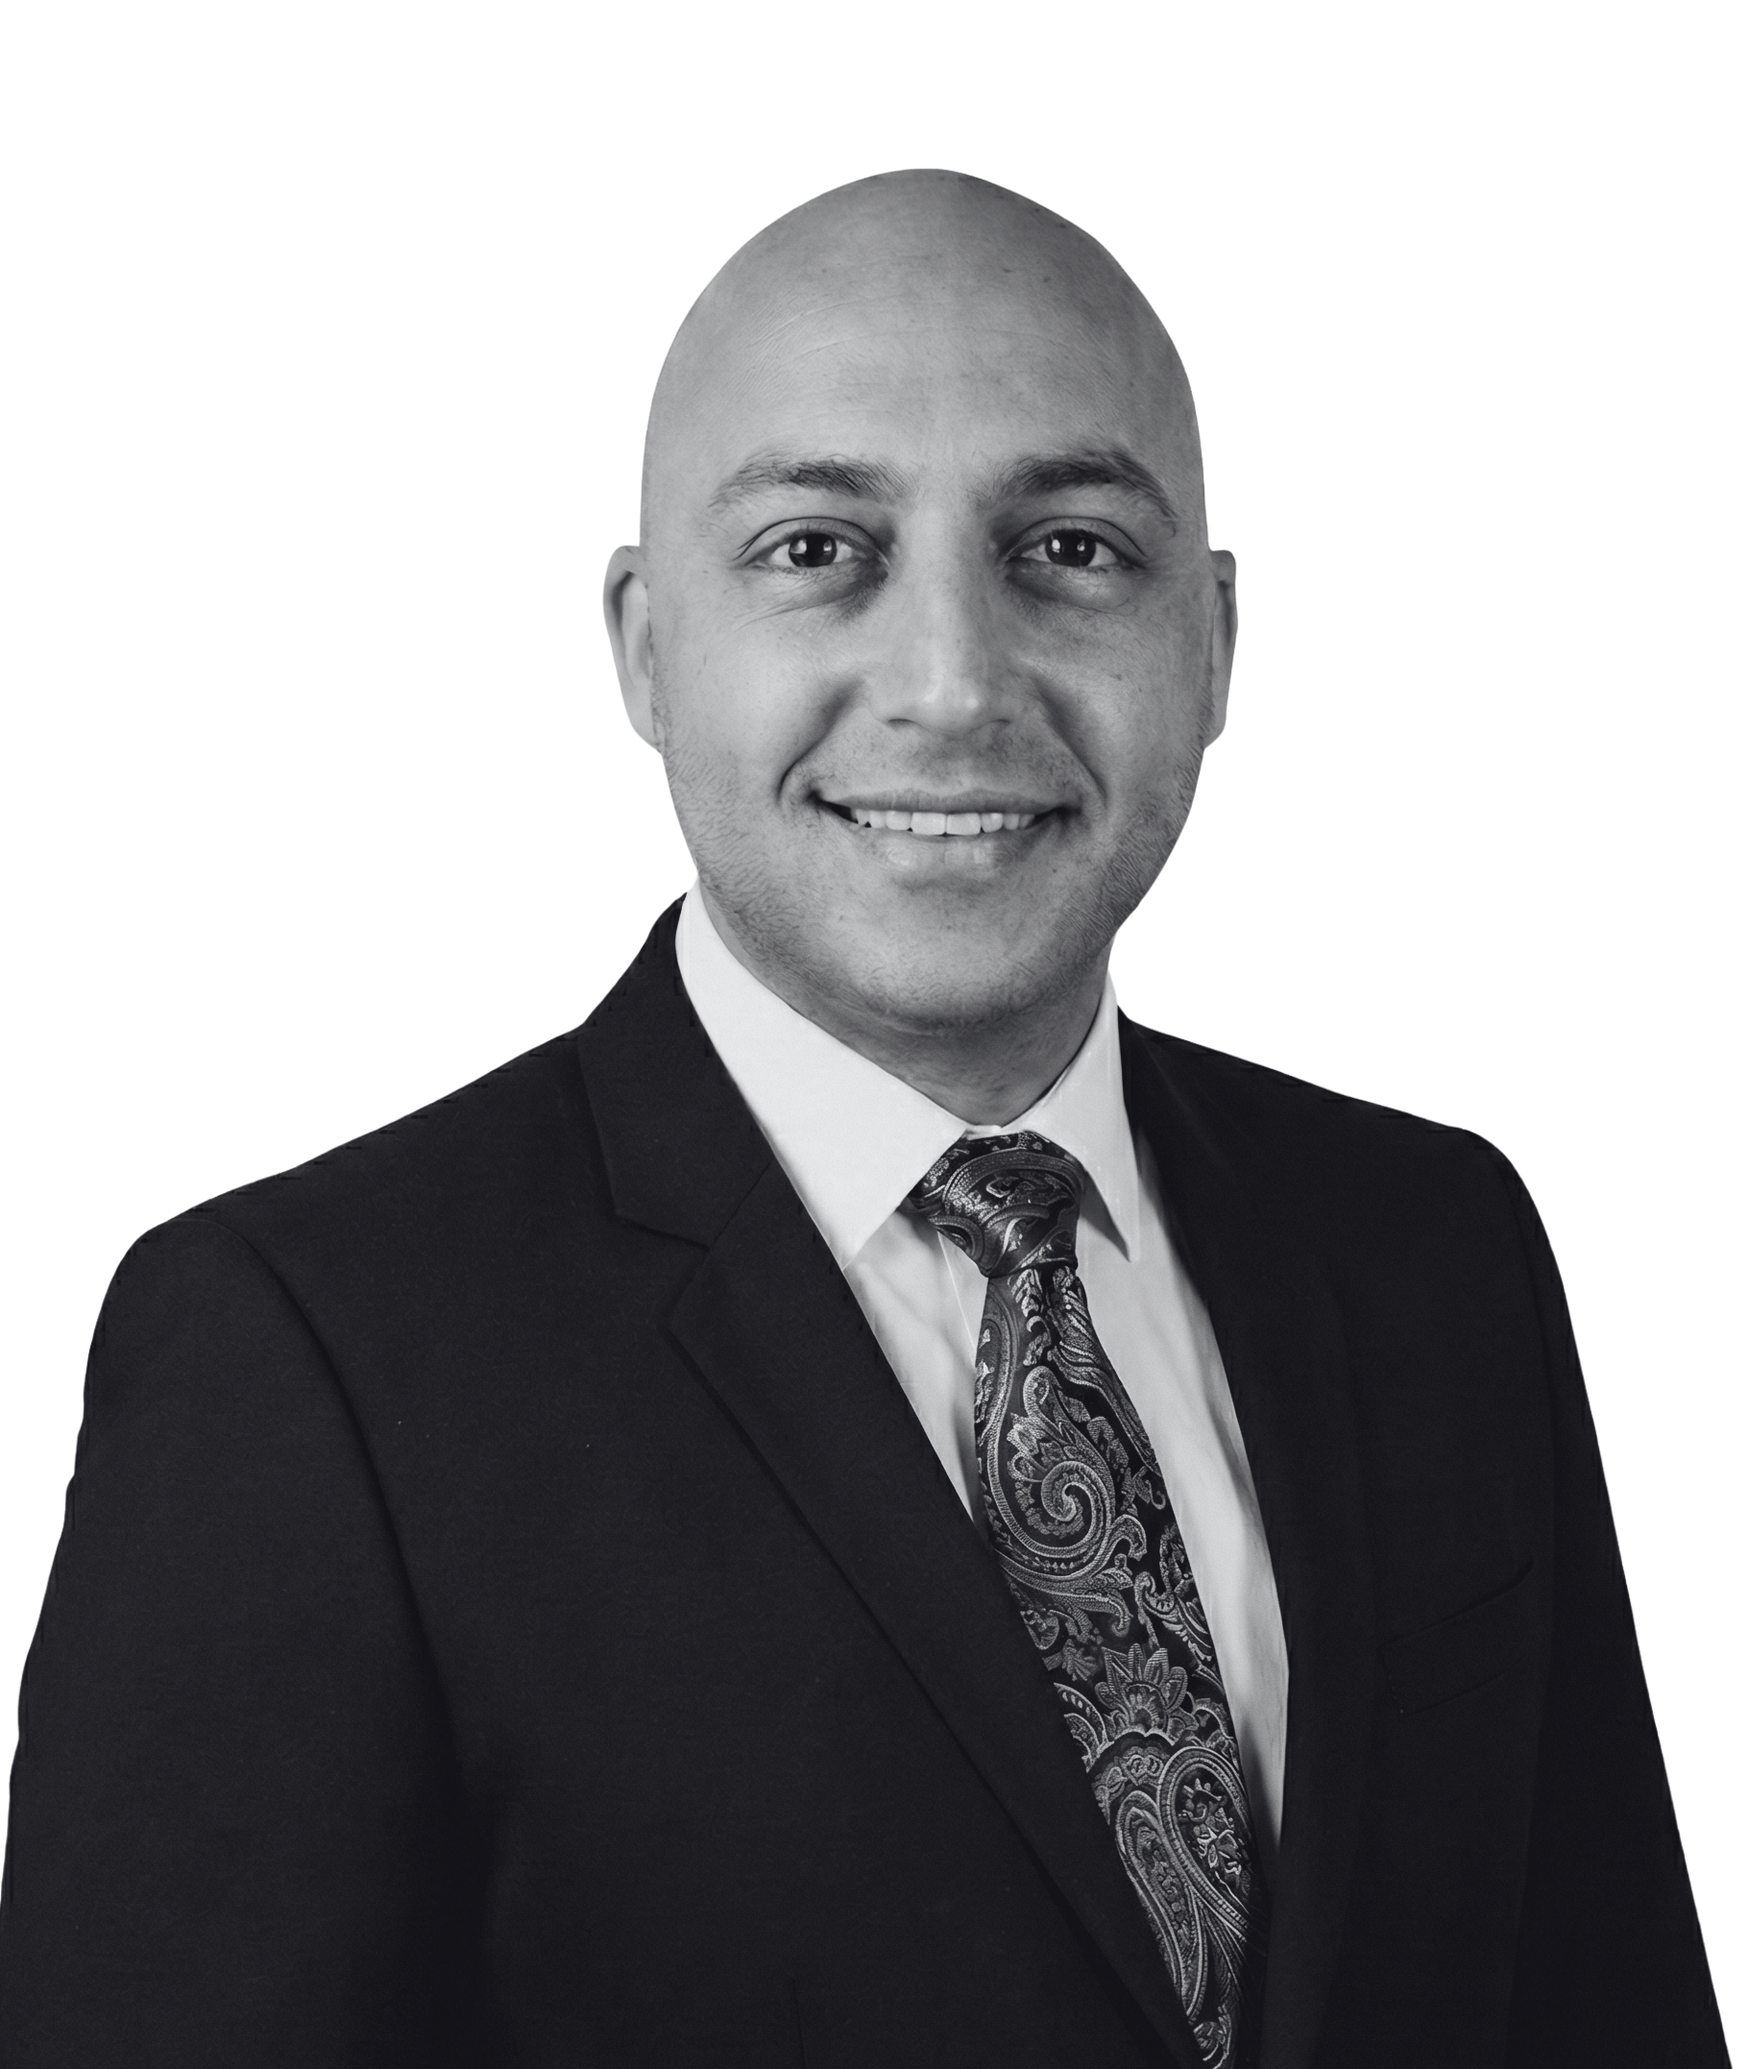
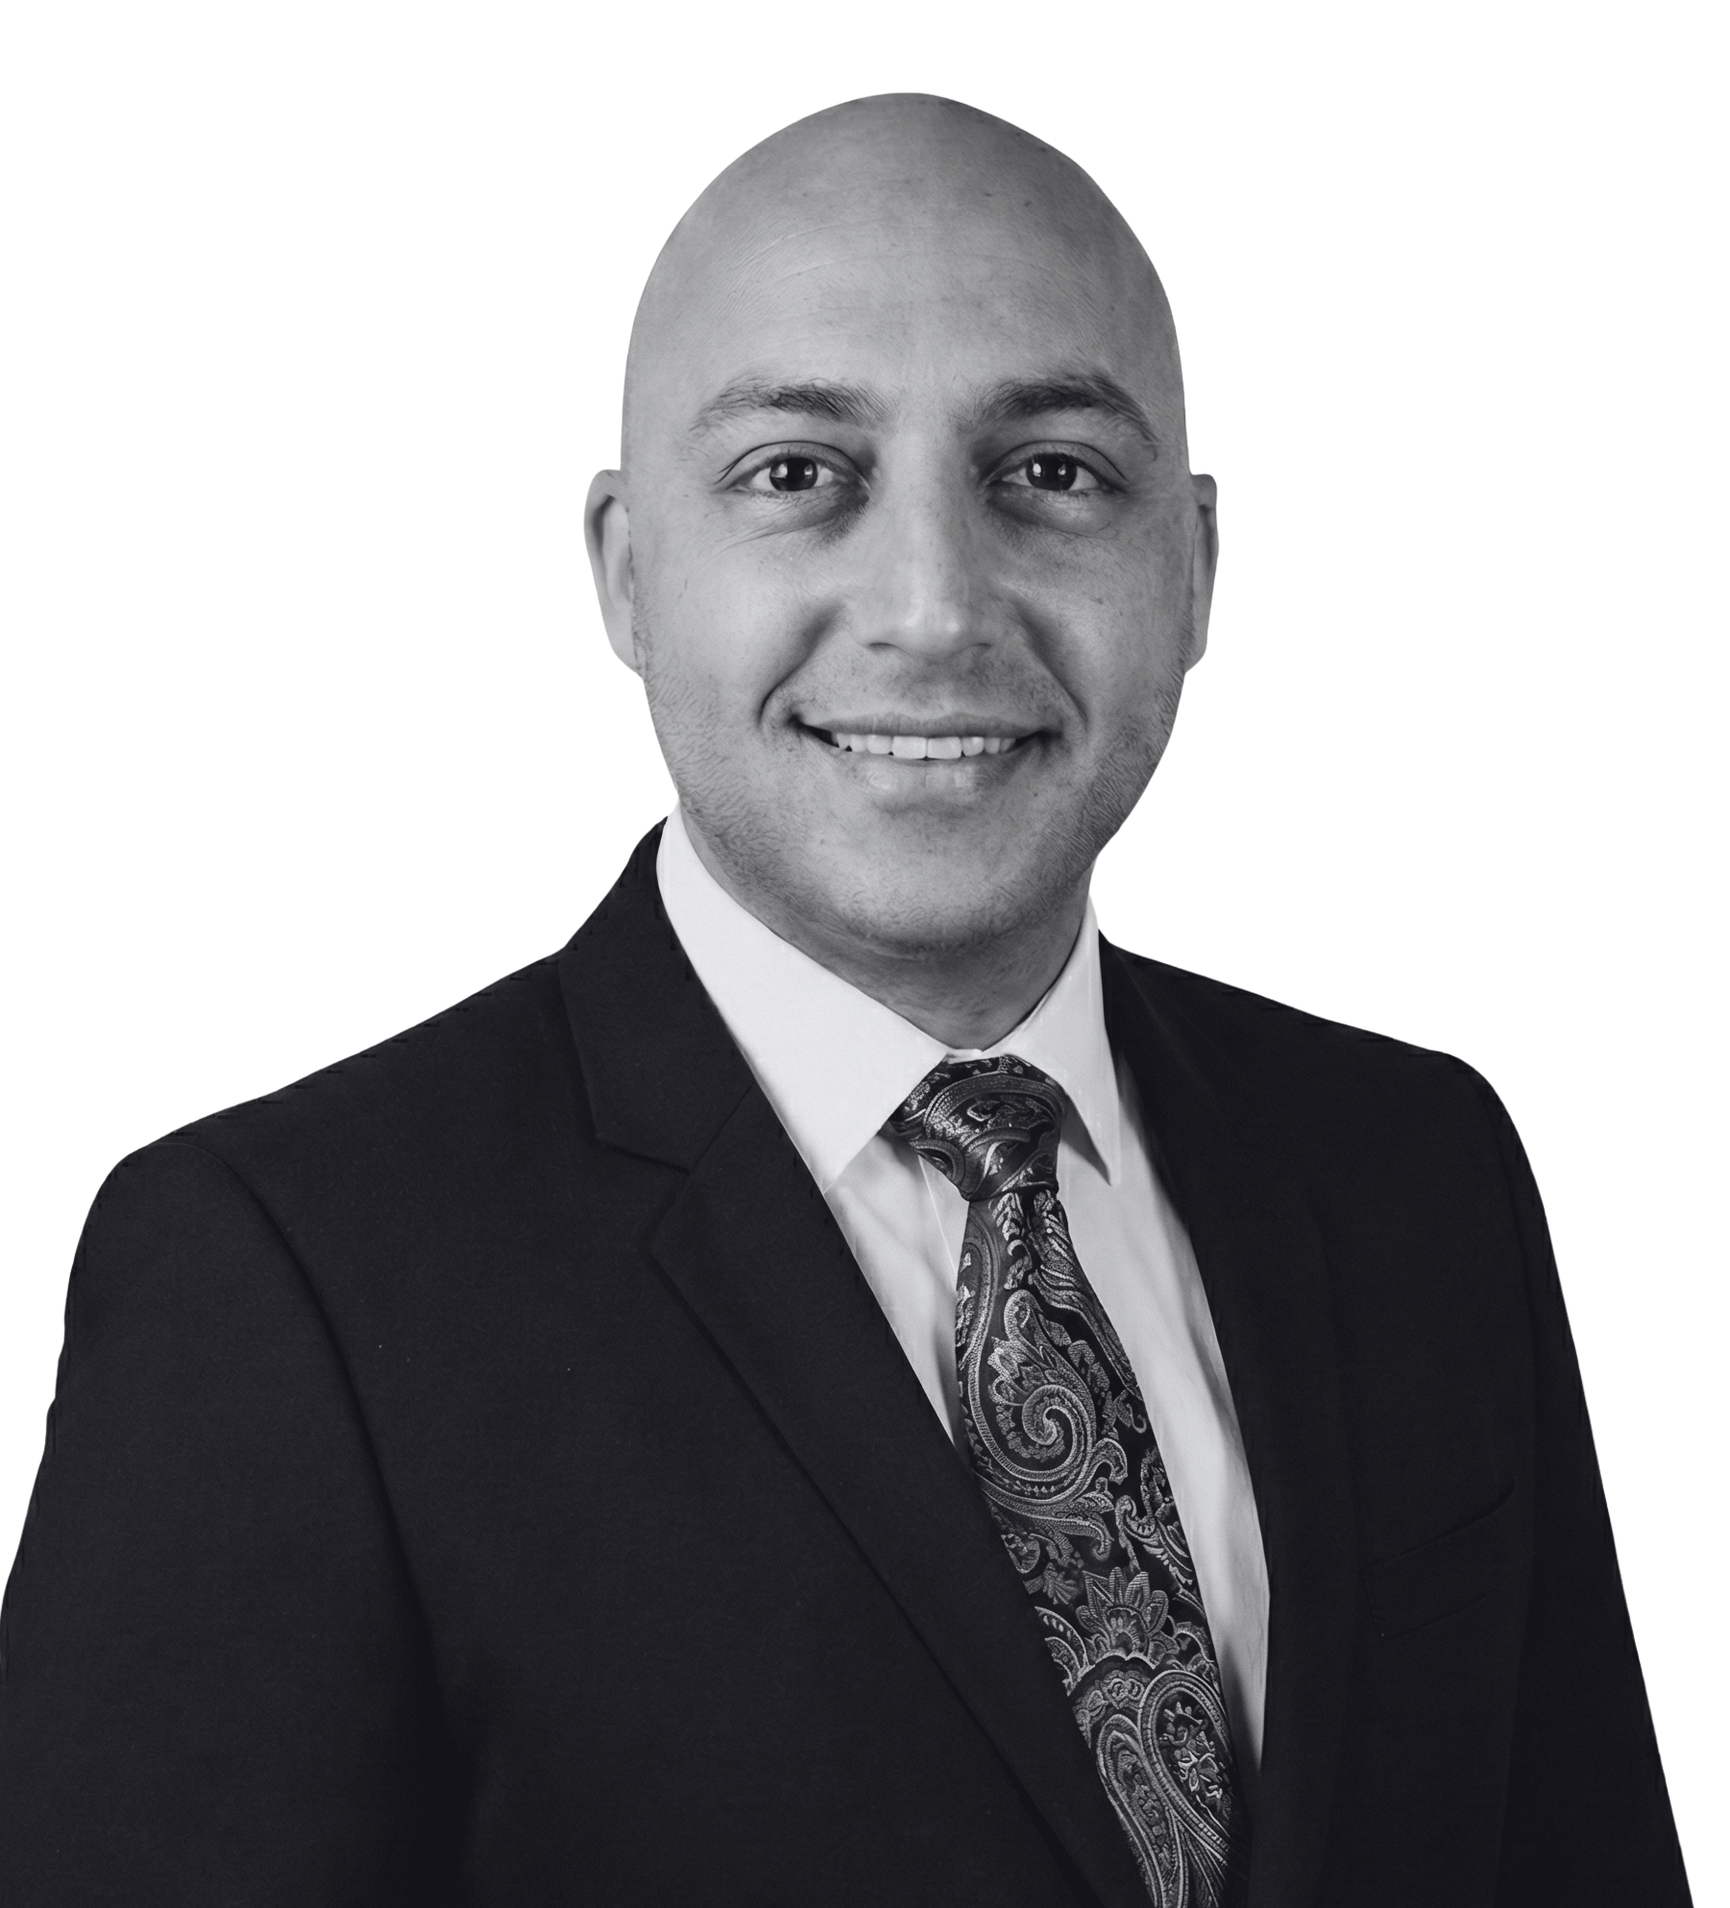
fix: adjust team image sizing

diff --git a/components/sections/Team.tsx b/components/sections/Team.tsx
@@ -257,7 +257,7 @@ function Team({ onModalStateChange }: TeamProps) {
                         fill
                         className={`object-contain object-center transition-transform transition-standard group-hover:scale-105 ${
                           isLoading ? 'opacity-0' : 'opacity-100'
-                        } ${member.name === 'Yaron Samuha' ? 'translate-y-3' : ''}`}
+                        } ${member.name === 'Yaron Samuha' ? 'translate-y-3 scale-110' : ''}`}
                         sizes="(max-width: 640px) 100vw, (max-width: 1024px) 50vw, 33vw"
                         style={{
                           filter: 'grayscale(100%) contrast(1.15)',
